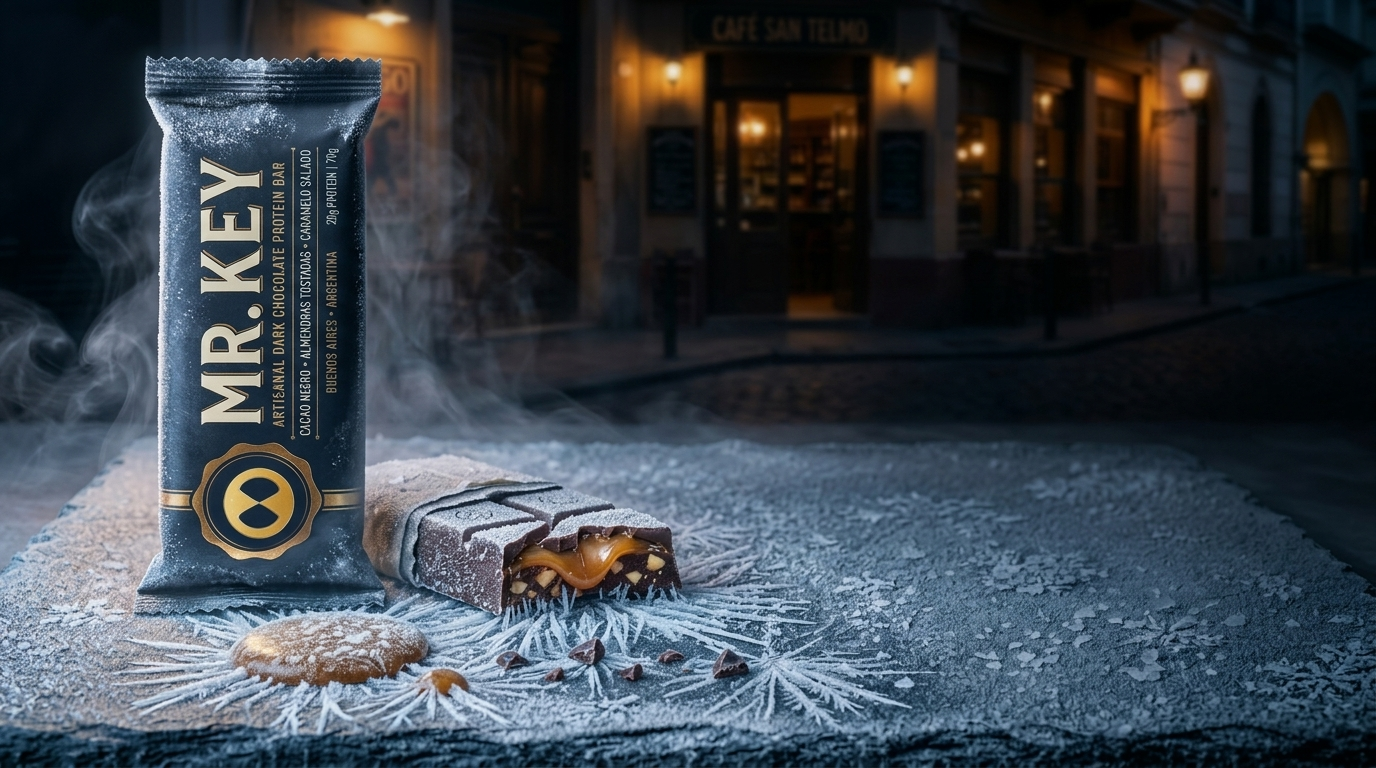
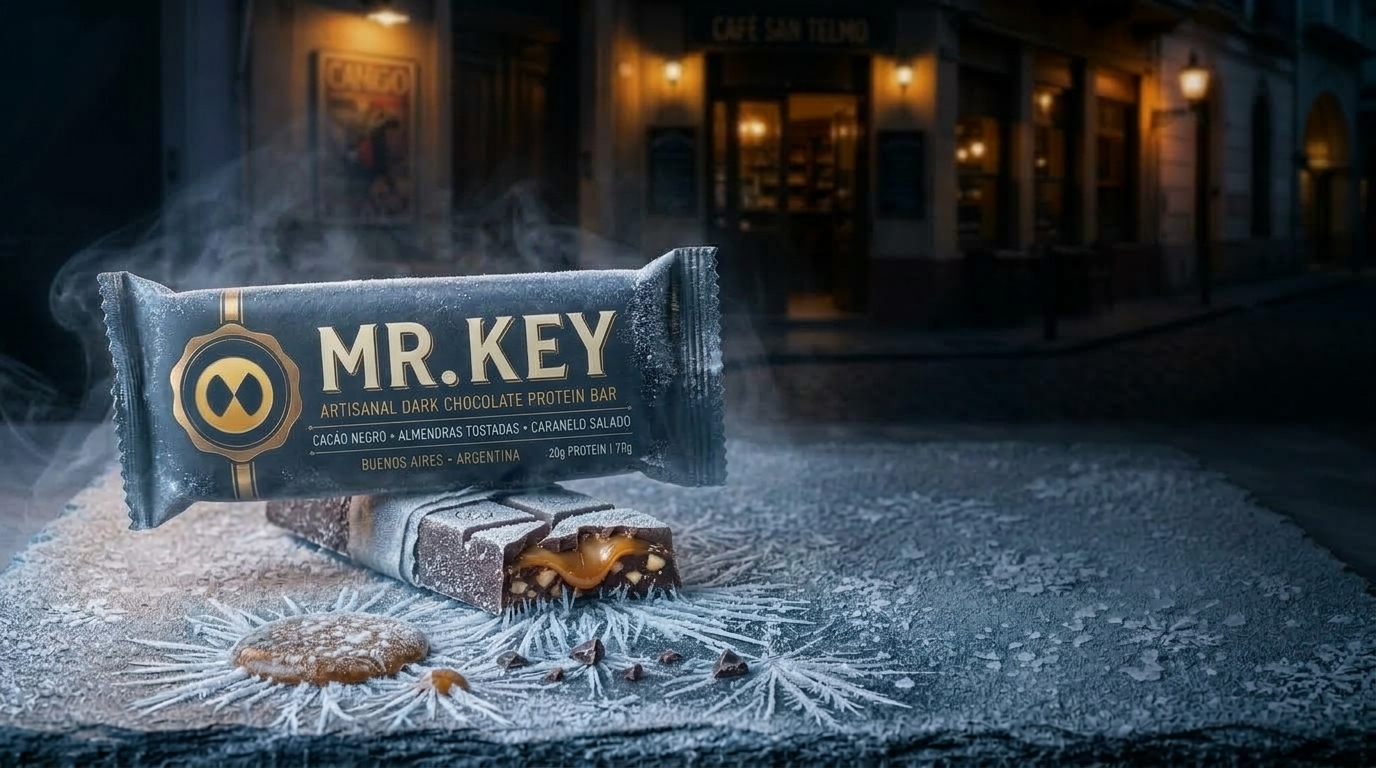
feat(cover): horizontal chocolate bar with 50-50 split grid and card centered in right half

Changed region(s): [[0.0, 0.0625, 0.7812, 0.9062], [0.8125, 0.8125, 0.8438, 0.8438], [0.3438, 0.8438, 0.375, 0.875]]

diff --git a/cover.html b/cover.html
@@ -643,19 +643,112 @@
       box-shadow: 0 25px 70px rgba(0, 0, 0, 0.9), inset 0 1px 1px rgba(255, 255, 255, 0.2);
     }
 
-    /* Desktop Asymmetrical Composition: Chocolate Bar showcase on Left, Card on Right */
+    /* Main Layout Split Grid for 2-column distribution */
+    .main-layout-split {
+      width: 100%;
+      display: flex;
+      justify-content: center;
+    }
+
+    .split-col-left {
+      display: none;
+    }
+
+    .split-col-right {
+      display: flex;
+      justify-content: center;
+      width: 100%;
+    }
+
+    /* Desktop Asymmetrical Composition: Chocolate Bar showcase on Left (50%), Card centered on Right (50%) */
     @media (min-width: 960px) {
+      body.theme-cover {
+        min-height: 100vh;
+        display: flex;
+        flex-direction: column;
+        justify-content: space-between;
+      }
+
       body.theme-cover .container {
-        max-width: 1240px;
-        align-items: flex-end;
+        max-width: 1440px;
+        width: 100%;
+        min-height: calc(100vh - 48px);
+        display: flex;
+        flex-direction: column;
+        justify-content: space-between;
+        padding: 16px 40px;
+      }
+
+      body.theme-cover .top-bar {
+        width: 100%;
+        margin-bottom: 16px;
+      }
+
+      body.theme-cover .main-layout-split {
+        display: grid;
+        grid-template-columns: 1fr 1fr; /* 50% left, 50% right! */
+        width: 100%;
+        flex: 1;
+        align-items: center; /* Vertically centered! */
+        gap: 30px;
+      }
+
+      body.theme-cover .split-col-left {
+        display: block;
+        min-height: 200px;
+        pointer-events: none;
+      }
+
+      body.theme-cover .split-col-right {
+        display: flex;
+        align-items: center;
+        justify-content: center; /* Exactly centered within the right 50%! */
+        width: 100%;
+      }
+
+      body.theme-cover .hero-card {
+        max-width: 490px;
+        width: 100%;
+        margin: 0 auto;
+        background: rgba(14, 10, 7, 0.74);
+        backdrop-filter: blur(14px);
+        -webkit-backdrop-filter: blur(14px);
+        border-color: rgba(245, 158, 11, 0.45);
+        box-shadow: 0 25px 70px rgba(0, 0, 0, 0.9), inset 0 1px 1px rgba(255, 255, 255, 0.2);
+      }
+
+      body.theme-cover .footer-note {
+        width: 100%;
+        text-align: right;
+        padding-right: 20px;
+      }
+    }
+
+    @media (max-width: 959px) {
+      body.theme-cover .container {
+        max-width: 580px;
+        padding: 16px 16px 32px;
+      }
+      body.theme-cover .main-layout-split {
+        display: flex;
+        flex-direction: column;
+        align-items: center;
+      }
+      body.theme-cover .split-col-left {
+        display: none;
+      }
+      body.theme-cover .split-col-right {
+        width: 100%;
       }
       body.theme-cover .hero-card {
-        max-width: 520px;
-        margin-left: auto;
+        max-width: 100%;
+      }
+      body.theme-cover .fullscreen-bg-photo {
+        background-position: 22% center;
       }
       body.theme-cover .footer-note {
-        margin-left: auto;
-        text-align: right;
+        text-align: center;
+        padding-right: 0;
       }
     }
 
@@ -743,8 +836,12 @@
       </div>
     </div>
 
-    <!-- Main Hero Card (Centered) -->
-    <div class="hero-card" id="hero-card">
+    <!-- Main Split Layout for 2-column grid -->
+    <div class="main-layout-split">
+      <div class="split-col-left"></div>
+      <div class="split-col-right">
+        <!-- Main Hero Card (Centered) -->
+        <div class="hero-card" id="hero-card">
       <div class="brand-badge-icon">
         <img src="mrkey-logo.png" alt="Mr. Key" class="brand-mini-logo">
       </div>
@@ -804,6 +901,8 @@
             <path d="M1.6,1.6H2.4V2.4H1.6zM2.4,1.6H3.2V2.4H2.4zM3.2,1.6H4V2.4H3.2zM4,1.6H4.8V2.4H4zM4.8,1.6H5.6V2.4H4.8zM5.6,1.6H6.4V2.4H5.6zM6.4,1.6H7.2V2.4H6.4zM8.8,1.6H9.6V2.4H8.8zM9.6,1.6H10.4V2.4H9.6zM10.4,1.6H11.2V2.4H10.4zM11.2,1.6H12V2.4H11.2zM12.8,1.6H13.6V2.4H12.8zM16.8,1.6H17.6V2.4H16.8zM17.6,1.6H18.4V2.4H17.6zM19.2,1.6H20V2.4H19.2zM20,1.6H20.8V2.4H20zM20.8,1.6H21.6V2.4H20.8zM21.6,1.6H22.4V2.4H21.6zM22.4,1.6H23.2V2.4H22.4zM23.2,1.6H24V2.4H23.2zM24,1.6H24.8V2.4H24zM1.6,2.4H2.4V3.2H1.6zM6.4,2.4H7.2V3.2H6.4zM9.6,2.4H10.4V3.2H9.6zM14.4,2.4H15.2V3.2H14.4zM15.2,2.4H16V3.2H15.2zM17.6,2.4H18.4V3.2H17.6zM19.2,2.4H20V3.2H19.2zM24,2.4H24.8V3.2H24zM1.6,3.2H2.4V4H1.6zM3.2,3.2H4V4H3.2zM4,3.2H4.8V4H4zM4.8,3.2H5.6V4H4.8zM6.4,3.2H7.2V4H6.4zM9.6,3.2H10.4V4H9.6zM10.4,3.2H11.2V4H10.4zM12.8,3.2H13.6V4H12.8zM13.6,3.2H14.4V4H13.6zM15.2,3.2H16V4H15.2zM16.8,3.2H17.6V4H16.8zM17.6,3.2H18.4V4H17.6zM19.2,3.2H20V4H19.2zM20.8,3.2H21.6V4H20.8zM21.6,3.2H22.4V4H21.6zM22.4,3.2H23.2V4H22.4zM24,3.2H24.8V4H24zM1.6,4H2.4V4.8H1.6zM3.2,4H4V4.8H3.2zM4,4H4.8V4.8H4zM4.8,4H5.6V4.8H4.8zM6.4,4H7.2V4.8H6.4zM8.8,4H9.6V4.8H8.8zM9.6,4H10.4V4.8H9.6zM10.4,4H11.2V4.8H10.4zM11.2,4H12V4.8H11.2zM12,4H12.8V4.8H12zM14.4,4H15.2V4.8H14.4zM15.2,4H16V4.8H15.2zM16,4H16.8V4.8H16zM17.6,4H18.4V4.8H17.6zM19.2,4H20V4.8H19.2zM20.8,4H21.6V4.8H20.8zM21.6,4H22.4V4.8H21.6zM22.4,4H23.2V4.8H22.4zM24,4H24.8V4.8H24zM1.6,4.8H2.4V5.6H1.6zM3.2,4.8H4V5.6H3.2zM4,4.8H4.8V5.6H4zM4.8,4.8H5.6V5.6H4.8zM6.4,4.8H7.2V5.6H6.4zM8.8,4.8H9.6V5.6H8.8zM9.6,4.8H10.4V5.6H9.6zM10.4,4.8H11.2V5.6H10.4zM15.2,4.8H16V5.6H15.2zM16.8,4.8H17.6V5.6H16.8zM19.2,4.8H20V5.6H19.2zM20.8,4.8H21.6V5.6H20.8zM21.6,4.8H22.4V5.6H21.6zM22.4,4.8H23.2V5.6H22.4zM24,4.8H24.8V5.6H24zM1.6,5.6H2.4V6.4H1.6zM6.4,5.6H7.2V6.4H6.4zM8,5.6H8.8V6.4H8zM9.6,5.6H10.4V6.4H9.6zM13.6,5.6H14.4V6.4H13.6zM14.4,5.6H15.2V6.4H14.4zM15.2,5.6H16V6.4H15.2zM16,5.6H16.8V6.4H16zM16.8,5.6H17.6V6.4H16.8zM19.2,5.6H20V6.4H19.2zM24,5.6H24.8V6.4H24zM1.6,6.4H2.4V7.2H1.6zM2.4,6.4H3.2V7.2H2.4zM3.2,6.4H4V7.2H3.2zM4,6.4H4.8V7.2H4zM4.8,6.4H5.6V7.2H4.8zM5.6,6.4H6.4V7.2H5.6zM6.4,6.4H7.2V7.2H6.4zM8,6.4H8.8V7.2H8zM9.6,6.4H10.4V7.2H9.6zM11.2,6.4H12V7.2H11.2zM12.8,6.4H13.6V7.2H12.8zM14.4,6.4H15.2V7.2H14.4zM16,6.4H16.8V7.2H16zM17.6,6.4H18.4V7.2H17.6zM19.2,6.4H20V7.2H19.2zM20,6.4H20.8V7.2H20zM20.8,6.4H21.6V7.2H20.8zM21.6,6.4H22.4V7.2H21.6zM22.4,6.4H23.2V7.2H22.4zM23.2,6.4H24V7.2H23.2zM24,6.4H24.8V7.2H24zM10.4,7.2H11.2V8H10.4zM12,7.2H12.8V8H12zM13.6,7.2H14.4V8H13.6zM14.4,7.2H15.2V8H14.4zM15.2,7.2H16V8H15.2zM16,7.2H16.8V8H16zM1.6,8H2.4V8.8H1.6zM4,8H4.8V8.8H4zM5.6,8H6.4V8.8H5.6zM6.4,8H7.2V8.8H6.4zM8,8H8.8V8.8H8zM8.8,8H9.6V8.8H8.8zM9.6,8H10.4V8.8H9.6zM10.4,8H11.2V8.8H10.4zM11.2,8H12V8.8H11.2zM12.8,8H13.6V8.8H12.8zM14.4,8H15.2V8.8H14.4zM18.4,8H19.2V8.8H18.4zM20,8H20.8V8.8H20zM3.2,8.8H4V9.6H3.2zM4,8.8H4.8V9.6H4zM7.2,8.8H8V9.6H7.2zM8,8.8H8.8V9.6H8zM8.8,8.8H9.6V9.6H8.8zM12,8.8H12.8V9.6H12zM13.6,8.8H14.4V9.6H13.6zM14.4,8.8H15.2V9.6H14.4zM15.2,8.8H16V9.6H15.2zM17.6,8.8H18.4V9.6H17.6zM18.4,8.8H19.2V9.6H18.4zM19.2,8.8H20V9.6H19.2zM20,8.8H20.8V9.6H20zM21.6,8.8H22.4V9.6H21.6zM24,8.8H24.8V9.6H24zM1.6,9.6H2.4V10.4H1.6zM2.4,9.6H3.2V10.4H2.4zM4.8,9.6H5.6V10.4H4.8zM6.4,9.6H7.2V10.4H6.4zM8,9.6H8.8V10.4H8zM8.8,9.6H9.6V10.4H8.8zM9.6,9.6H10.4V10.4H9.6zM10.4,9.6H11.2V10.4H10.4zM12,9.6H12.8V10.4H12zM12.8,9.6H13.6V10.4H12.8zM13.6,9.6H14.4V10.4H13.6zM15.2,9.6H16V10.4H15.2zM16,9.6H16.8V10.4H16zM16.8,9.6H17.6V10.4H16.8zM17.6,9.6H18.4V10.4H17.6zM18.4,9.6H19.2V10.4H18.4zM19.2,9.6H20V10.4H19.2zM20,9.6H20.8V10.4H20zM20.8,9.6H21.6V10.4H20.8zM21.6,9.6H22.4V10.4H21.6zM22.4,9.6H23.2V10.4H22.4zM23.2,9.6H24V10.4H23.2zM1.6,10.4H2.4V11.2H1.6zM4,10.4H4.8V11.2H4zM7.2,10.4H8V11.2H7.2zM9.6,10.4H10.4V11.2H9.6zM10.4,10.4H11.2V11.2H10.4zM12,10.4H12.8V11.2H12zM14.4,10.4H15.2V11.2H14.4zM17.6,10.4H18.4V11.2H17.6zM19.2,10.4H20V11.2H19.2zM20,10.4H20.8V11.2H20zM22.4,10.4H23.2V11.2H22.4zM23.2,10.4H24V11.2H23.2zM3.2,11.2H4V12H3.2zM4.8,11.2H5.6V12H4.8zM5.6,11.2H6.4V12H5.6zM6.4,11.2H7.2V12H6.4zM8,11.2H8.8V12H8zM9.6,11.2H10.4V12H9.6zM12.8,11.2H13.6V12H12.8zM13.6,11.2H14.4V12H13.6zM15.2,11.2H16V12H15.2zM17.6,11.2H18.4V12H17.6zM18.4,11.2H19.2V12H18.4zM19.2,11.2H20V12H19.2zM21.6,11.2H22.4V12H21.6zM23.2,11.2H24V12H23.2zM24,11.2H24.8V12H24zM4.8,12H5.6V12.8H4.8zM5.6,12H6.4V12.8H5.6zM7.2,12H8V12.8H7.2zM8,12H8.8V12.8H8zM9.6,12H10.4V12.8H9.6zM10.4,12H11.2V12.8H10.4zM11.2,12H12V12.8H11.2zM12,12H12.8V12.8H12zM12.8,12H13.6V12.8H12.8zM13.6,12H14.4V12.8H13.6zM14.4,12H15.2V12.8H14.4zM16.8,12H17.6V12.8H16.8zM17.6,12H18.4V12.8H17.6zM18.4,12H19.2V12.8H18.4zM1.6,12.8H2.4V13.6H1.6zM3.2,12.8H4V13.6H3.2zM4,12.8H4.8V13.6H4zM5.6,12.8H6.4V13.6H5.6zM6.4,12.8H7.2V13.6H6.4zM8,12.8H8.8V13.6H8zM9.6,12.8H10.4V13.6H9.6zM12,12.8H12.8V13.6H12zM12.8,12.8H13.6V13.6H12.8zM17.6,12.8H18.4V13.6H17.6zM18.4,12.8H19.2V13.6H18.4zM20.8,12.8H21.6V13.6H20.8zM21.6,12.8H22.4V13.6H21.6zM22.4,12.8H23.2V13.6H22.4zM23.2,12.8H24V13.6H23.2zM24,12.8H24.8V13.6H24zM1.6,13.6H2.4V14.4H1.6zM4.8,13.6H5.6V14.4H4.8zM9.6,13.6H10.4V14.4H9.6zM10.4,13.6H11.2V14.4H10.4zM13.6,13.6H14.4V14.4H13.6zM15.2,13.6H16V14.4H15.2zM16,13.6H16.8V14.4H16zM17.6,13.6H18.4V14.4H17.6zM20.8,13.6H21.6V14.4H20.8zM21.6,13.6H22.4V14.4H21.6zM23.2,13.6H24V14.4H23.2zM1.6,14.4H2.4V15.2H1.6zM2.4,14.4H3.2V15.2H2.4zM4.8,14.4H5.6V15.2H4.8zM5.6,14.4H6.4V15.2H5.6zM6.4,14.4H7.2V15.2H6.4zM7.2,14.4H8V15.2H7.2zM11.2,14.4H12V15.2H11.2zM12,14.4H12.8V15.2H12zM15.2,14.4H16V15.2H15.2zM18.4,14.4H19.2V15.2H18.4zM23.2,14.4H24V15.2H23.2zM3.2,15.2H4V16H3.2zM4,15.2H4.8V16H4zM4.8,15.2H5.6V16H4.8zM5.6,15.2H6.4V16H5.6zM8,15.2H8.8V16H8zM11.2,15.2H12V16H11.2zM12,15.2H12.8V16H12zM12.8,15.2H13.6V16H12.8zM13.6,15.2H14.4V16H13.6zM14.4,15.2H15.2V16H14.4zM16,15.2H16.8V16H16zM16.8,15.2H17.6V16H16.8zM19.2,15.2H20V16H19.2zM20,15.2H20.8V16H20zM21.6,15.2H22.4V16H21.6zM24,15.2H24.8V16H24zM1.6,16H2.4V16.8H1.6zM3.2,16H4V16.8H3.2zM4,16H4.8V16.8H4zM6.4,16H7.2V16.8H6.4zM7.2,16H8V16.8H7.2zM9.6,16H10.4V16.8H9.6zM12.8,16H13.6V16.8H12.8zM13.6,16H14.4V16.8H13.6zM14.4,16H15.2V16.8H14.4zM19.2,16H20V16.8H19.2zM23.2,16H24V16.8H23.2zM24,16H24.8V16.8H24zM3.2,16.8H4V17.6H3.2zM4,16.8H4.8V17.6H4zM4.8,16.8H5.6V17.6H4.8zM9.6,16.8H10.4V17.6H9.6zM11.2,16.8H12V17.6H11.2zM12.8,16.8H13.6V17.6H12.8zM15.2,16.8H16V17.6H15.2zM18.4,16.8H19.2V17.6H18.4zM20.8,16.8H21.6V17.6H20.8zM23.2,16.8H24V17.6H23.2zM24,16.8H24.8V17.6H24zM1.6,17.6H2.4V18.4H1.6zM3.2,17.6H4V18.4H3.2zM4,17.6H4.8V18.4H4zM4.8,17.6H5.6V18.4H4.8zM6.4,17.6H7.2V18.4H6.4zM7.2,17.6H8V18.4H7.2zM8.8,17.6H9.6V18.4H8.8zM11.2,17.6H12V18.4H11.2zM13.6,17.6H14.4V18.4H13.6zM15.2,17.6H16V18.4H15.2zM16,17.6H16.8V18.4H16zM16.8,17.6H17.6V18.4H16.8zM17.6,17.6H18.4V18.4H17.6zM18.4,17.6H19.2V18.4H18.4zM19.2,17.6H20V18.4H19.2zM20,17.6H20.8V18.4H20zM20.8,17.6H21.6V18.4H20.8zM22.4,17.6H23.2V18.4H22.4zM8,18.4H8.8V19.2H8zM10.4,18.4H11.2V19.2H10.4zM12.8,18.4H13.6V19.2H12.8zM13.6,18.4H14.4V19.2H13.6zM17.6,18.4H18.4V19.2H17.6zM20.8,18.4H21.6V19.2H20.8zM22.4,18.4H23.2V19.2H22.4zM23.2,18.4H24V19.2H23.2zM24,18.4H24.8V19.2H24zM1.6,19.2H2.4V20H1.6zM2.4,19.2H3.2V20H2.4zM3.2,19.2H4V20H3.2zM4,19.2H4.8V20H4zM4.8,19.2H5.6V20H4.8zM5.6,19.2H6.4V20H5.6zM6.4,19.2H7.2V20H6.4zM8.8,19.2H9.6V20H8.8zM9.6,19.2H10.4V20H9.6zM10.4,19.2H11.2V20H10.4zM14.4,19.2H15.2V20H14.4zM15.2,19.2H16V20H15.2zM17.6,19.2H18.4V20H17.6zM19.2,19.2H20V20H19.2zM20.8,19.2H21.6V20H20.8zM23.2,19.2H24V20H23.2zM1.6,20H2.4V20.8H1.6zM6.4,20H7.2V20.8H6.4zM8,20H8.8V20.8H8zM8.8,20H9.6V20.8H8.8zM11.2,20H12V20.8H11.2zM12.8,20H13.6V20.8H12.8zM13.6,20H14.4V20.8H13.6zM15.2,20H16V20.8H15.2zM17.6,20H18.4V20.8H17.6zM20.8,20H21.6V20.8H20.8zM21.6,20H22.4V20.8H21.6zM22.4,20H23.2V20.8H22.4zM24,20H24.8V20.8H24zM1.6,20.8H2.4V21.6H1.6zM3.2,20.8H4V21.6H3.2zM4,20.8H4.8V21.6H4zM4.8,20.8H5.6V21.6H4.8zM6.4,20.8H7.2V21.6H6.4zM10.4,20.8H11.2V21.6H10.4zM11.2,20.8H12V21.6H11.2zM14.4,20.8H15.2V21.6H14.4zM17.6,20.8H18.4V21.6H17.6zM18.4,20.8H19.2V21.6H18.4zM19.2,20.8H20V21.6H19.2zM20,20.8H20.8V21.6H20zM20.8,20.8H21.6V21.6H20.8zM1.6,21.6H2.4V22.4H1.6zM3.2,21.6H4V22.4H3.2zM4,21.6H4.8V22.4H4zM4.8,21.6H5.6V22.4H4.8zM6.4,21.6H7.2V22.4H6.4zM8,21.6H8.8V22.4H8zM8.8,21.6H9.6V22.4H8.8zM10.4,21.6H11.2V22.4H10.4zM11.2,21.6H12V22.4H11.2zM12,21.6H12.8V22.4H12zM13.6,21.6H14.4V22.4H13.6zM15.2,21.6H16V22.4H15.2zM16.8,21.6H17.6V22.4H16.8zM19.2,21.6H20V22.4H19.2zM20,21.6H20.8V22.4H20zM20.8,21.6H21.6V22.4H20.8zM21.6,21.6H22.4V22.4H21.6zM22.4,21.6H23.2V22.4H22.4zM24,21.6H24.8V22.4H24zM1.6,22.4H2.4V23.2H1.6zM3.2,22.4H4V23.2H3.2zM4,22.4H4.8V23.2H4zM4.8,22.4H5.6V23.2H4.8zM6.4,22.4H7.2V23.2H6.4zM8.8,22.4H9.6V23.2H8.8zM12,22.4H12.8V23.2H12zM12.8,22.4H13.6V23.2H12.8zM13.6,22.4H14.4V23.2H13.6zM14.4,22.4H15.2V23.2H14.4zM15.2,22.4H16V23.2H15.2zM16,22.4H16.8V23.2H16zM16.8,22.4H17.6V23.2H16.8zM20,22.4H20.8V23.2H20zM20.8,22.4H21.6V23.2H20.8zM21.6,22.4H22.4V23.2H21.6zM22.4,22.4H23.2V23.2H22.4zM24,22.4H24.8V23.2H24zM1.6,23.2H2.4V24H1.6zM6.4,23.2H7.2V24H6.4zM9.6,23.2H10.4V24H9.6zM11.2,23.2H12V24H11.2zM12.8,23.2H13.6V24H12.8zM14.4,23.2H15.2V24H14.4zM15.2,23.2H16V24H15.2zM16,23.2H16.8V24H16zM16.8,23.2H17.6V24H16.8zM17.6,23.2H18.4V24H17.6zM18.4,23.2H19.2V24H18.4zM19.2,23.2H20V24H19.2zM20,23.2H20.8V24H20zM23.2,23.2H24V24H23.2zM1.6,24H2.4V24.8H1.6zM2.4,24H3.2V24.8H2.4zM3.2,24H4V24.8H3.2zM4,24H4.8V24.8H4zM4.8,24H5.6V24.8H4.8zM5.6,24H6.4V24.8H5.6zM6.4,24H7.2V24.8H6.4zM8,24H8.8V24.8H8zM9.6,24H10.4V24.8H9.6zM10.4,24H11.2V24.8H10.4zM12,24H12.8V24.8H12zM13.6,24H14.4V24.8H13.6zM14.4,24H15.2V24.8H14.4zM16,24H16.8V24.8H16zM17.6,24H18.4V24.8H17.6zM18.4,24H19.2V24        <div class="qr-hint" id="txt-qr-hint">Escaneá con tu celular para abrir el bot</div>
       </div>
     </div>
+      </div> <!-- /split-col-right -->
+    </div> <!-- /main-layout-split -->
 
   <!-- Minimal Copyright -->
   <div class="footer-note" id="txt-footer">

diff --git a/index.html b/index.html
@@ -643,19 +643,112 @@
       box-shadow: 0 25px 70px rgba(0, 0, 0, 0.9), inset 0 1px 1px rgba(255, 255, 255, 0.2);
     }
 
-    /* Desktop Asymmetrical Composition: Chocolate Bar showcase on Left, Card on Right */
+    /* Main Layout Split Grid for 2-column distribution */
+    .main-layout-split {
+      width: 100%;
+      display: flex;
+      justify-content: center;
+    }
+
+    .split-col-left {
+      display: none;
+    }
+
+    .split-col-right {
+      display: flex;
+      justify-content: center;
+      width: 100%;
+    }
+
+    /* Desktop Asymmetrical Composition: Chocolate Bar showcase on Left (50%), Card centered on Right (50%) */
     @media (min-width: 960px) {
+      body.theme-cover {
+        min-height: 100vh;
+        display: flex;
+        flex-direction: column;
+        justify-content: space-between;
+      }
+
       body.theme-cover .container {
-        max-width: 1240px;
-        align-items: flex-end;
+        max-width: 1440px;
+        width: 100%;
+        min-height: calc(100vh - 48px);
+        display: flex;
+        flex-direction: column;
+        justify-content: space-between;
+        padding: 16px 40px;
+      }
+
+      body.theme-cover .top-bar {
+        width: 100%;
+        margin-bottom: 16px;
+      }
+
+      body.theme-cover .main-layout-split {
+        display: grid;
+        grid-template-columns: 1fr 1fr; /* 50% left, 50% right! */
+        width: 100%;
+        flex: 1;
+        align-items: center; /* Vertically centered! */
+        gap: 30px;
+      }
+
+      body.theme-cover .split-col-left {
+        display: block;
+        min-height: 200px;
+        pointer-events: none;
+      }
+
+      body.theme-cover .split-col-right {
+        display: flex;
+        align-items: center;
+        justify-content: center; /* Exactly centered within the right 50%! */
+        width: 100%;
+      }
+
+      body.theme-cover .hero-card {
+        max-width: 490px;
+        width: 100%;
+        margin: 0 auto;
+        background: rgba(14, 10, 7, 0.74);
+        backdrop-filter: blur(14px);
+        -webkit-backdrop-filter: blur(14px);
+        border-color: rgba(245, 158, 11, 0.45);
+        box-shadow: 0 25px 70px rgba(0, 0, 0, 0.9), inset 0 1px 1px rgba(255, 255, 255, 0.2);
+      }
+
+      body.theme-cover .footer-note {
+        width: 100%;
+        text-align: right;
+        padding-right: 20px;
+      }
+    }
+
+    @media (max-width: 959px) {
+      body.theme-cover .container {
+        max-width: 580px;
+        padding: 16px 16px 32px;
+      }
+      body.theme-cover .main-layout-split {
+        display: flex;
+        flex-direction: column;
+        align-items: center;
+      }
+      body.theme-cover .split-col-left {
+        display: none;
+      }
+      body.theme-cover .split-col-right {
+        width: 100%;
       }
       body.theme-cover .hero-card {
-        max-width: 520px;
-        margin-left: auto;
+        max-width: 100%;
+      }
+      body.theme-cover .fullscreen-bg-photo {
+        background-position: 22% center;
       }
       body.theme-cover .footer-note {
-        margin-left: auto;
-        text-align: right;
+        text-align: center;
+        padding-right: 0;
       }
     }
 
@@ -743,8 +836,12 @@
       </div>
     </div>
 
-    <!-- Main Hero Card (Centered) -->
-    <div class="hero-card" id="hero-card">
+    <!-- Main Split Layout for 2-column grid -->
+    <div class="main-layout-split">
+      <div class="split-col-left"></div>
+      <div class="split-col-right">
+        <!-- Main Hero Card (Centered) -->
+        <div class="hero-card" id="hero-card">
       <div class="brand-badge-icon">
         <img src="mrkey-logo.png" alt="Mr. Key" class="brand-mini-logo">
       </div>
@@ -804,6 +901,8 @@
             <path d="M1.6,1.6H2.4V2.4H1.6zM2.4,1.6H3.2V2.4H2.4zM3.2,1.6H4V2.4H3.2zM4,1.6H4.8V2.4H4zM4.8,1.6H5.6V2.4H4.8zM5.6,1.6H6.4V2.4H5.6zM6.4,1.6H7.2V2.4H6.4zM8.8,1.6H9.6V2.4H8.8zM9.6,1.6H10.4V2.4H9.6zM10.4,1.6H11.2V2.4H10.4zM11.2,1.6H12V2.4H11.2zM12.8,1.6H13.6V2.4H12.8zM16.8,1.6H17.6V2.4H16.8zM17.6,1.6H18.4V2.4H17.6zM19.2,1.6H20V2.4H19.2zM20,1.6H20.8V2.4H20zM20.8,1.6H21.6V2.4H20.8zM21.6,1.6H22.4V2.4H21.6zM22.4,1.6H23.2V2.4H22.4zM23.2,1.6H24V2.4H23.2zM24,1.6H24.8V2.4H24zM1.6,2.4H2.4V3.2H1.6zM6.4,2.4H7.2V3.2H6.4zM9.6,2.4H10.4V3.2H9.6zM14.4,2.4H15.2V3.2H14.4zM15.2,2.4H16V3.2H15.2zM17.6,2.4H18.4V3.2H17.6zM19.2,2.4H20V3.2H19.2zM24,2.4H24.8V3.2H24zM1.6,3.2H2.4V4H1.6zM3.2,3.2H4V4H3.2zM4,3.2H4.8V4H4zM4.8,3.2H5.6V4H4.8zM6.4,3.2H7.2V4H6.4zM9.6,3.2H10.4V4H9.6zM10.4,3.2H11.2V4H10.4zM12.8,3.2H13.6V4H12.8zM13.6,3.2H14.4V4H13.6zM15.2,3.2H16V4H15.2zM16.8,3.2H17.6V4H16.8zM17.6,3.2H18.4V4H17.6zM19.2,3.2H20V4H19.2zM20.8,3.2H21.6V4H20.8zM21.6,3.2H22.4V4H21.6zM22.4,3.2H23.2V4H22.4zM24,3.2H24.8V4H24zM1.6,4H2.4V4.8H1.6zM3.2,4H4V4.8H3.2zM4,4H4.8V4.8H4zM4.8,4H5.6V4.8H4.8zM6.4,4H7.2V4.8H6.4zM8.8,4H9.6V4.8H8.8zM9.6,4H10.4V4.8H9.6zM10.4,4H11.2V4.8H10.4zM11.2,4H12V4.8H11.2zM12,4H12.8V4.8H12zM14.4,4H15.2V4.8H14.4zM15.2,4H16V4.8H15.2zM16,4H16.8V4.8H16zM17.6,4H18.4V4.8H17.6zM19.2,4H20V4.8H19.2zM20.8,4H21.6V4.8H20.8zM21.6,4H22.4V4.8H21.6zM22.4,4H23.2V4.8H22.4zM24,4H24.8V4.8H24zM1.6,4.8H2.4V5.6H1.6zM3.2,4.8H4V5.6H3.2zM4,4.8H4.8V5.6H4zM4.8,4.8H5.6V5.6H4.8zM6.4,4.8H7.2V5.6H6.4zM8.8,4.8H9.6V5.6H8.8zM9.6,4.8H10.4V5.6H9.6zM10.4,4.8H11.2V5.6H10.4zM15.2,4.8H16V5.6H15.2zM16.8,4.8H17.6V5.6H16.8zM19.2,4.8H20V5.6H19.2zM20.8,4.8H21.6V5.6H20.8zM21.6,4.8H22.4V5.6H21.6zM22.4,4.8H23.2V5.6H22.4zM24,4.8H24.8V5.6H24zM1.6,5.6H2.4V6.4H1.6zM6.4,5.6H7.2V6.4H6.4zM8,5.6H8.8V6.4H8zM9.6,5.6H10.4V6.4H9.6zM13.6,5.6H14.4V6.4H13.6zM14.4,5.6H15.2V6.4H14.4zM15.2,5.6H16V6.4H15.2zM16,5.6H16.8V6.4H16zM16.8,5.6H17.6V6.4H16.8zM19.2,5.6H20V6.4H19.2zM24,5.6H24.8V6.4H24zM1.6,6.4H2.4V7.2H1.6zM2.4,6.4H3.2V7.2H2.4zM3.2,6.4H4V7.2H3.2zM4,6.4H4.8V7.2H4zM4.8,6.4H5.6V7.2H4.8zM5.6,6.4H6.4V7.2H5.6zM6.4,6.4H7.2V7.2H6.4zM8,6.4H8.8V7.2H8zM9.6,6.4H10.4V7.2H9.6zM11.2,6.4H12V7.2H11.2zM12.8,6.4H13.6V7.2H12.8zM14.4,6.4H15.2V7.2H14.4zM16,6.4H16.8V7.2H16zM17.6,6.4H18.4V7.2H17.6zM19.2,6.4H20V7.2H19.2zM20,6.4H20.8V7.2H20zM20.8,6.4H21.6V7.2H20.8zM21.6,6.4H22.4V7.2H21.6zM22.4,6.4H23.2V7.2H22.4zM23.2,6.4H24V7.2H23.2zM24,6.4H24.8V7.2H24zM10.4,7.2H11.2V8H10.4zM12,7.2H12.8V8H12zM13.6,7.2H14.4V8H13.6zM14.4,7.2H15.2V8H14.4zM15.2,7.2H16V8H15.2zM16,7.2H16.8V8H16zM1.6,8H2.4V8.8H1.6zM4,8H4.8V8.8H4zM5.6,8H6.4V8.8H5.6zM6.4,8H7.2V8.8H6.4zM8,8H8.8V8.8H8zM8.8,8H9.6V8.8H8.8zM9.6,8H10.4V8.8H9.6zM10.4,8H11.2V8.8H10.4zM11.2,8H12V8.8H11.2zM12.8,8H13.6V8.8H12.8zM14.4,8H15.2V8.8H14.4zM18.4,8H19.2V8.8H18.4zM20,8H20.8V8.8H20zM3.2,8.8H4V9.6H3.2zM4,8.8H4.8V9.6H4zM7.2,8.8H8V9.6H7.2zM8,8.8H8.8V9.6H8zM8.8,8.8H9.6V9.6H8.8zM12,8.8H12.8V9.6H12zM13.6,8.8H14.4V9.6H13.6zM14.4,8.8H15.2V9.6H14.4zM15.2,8.8H16V9.6H15.2zM17.6,8.8H18.4V9.6H17.6zM18.4,8.8H19.2V9.6H18.4zM19.2,8.8H20V9.6H19.2zM20,8.8H20.8V9.6H20zM21.6,8.8H22.4V9.6H21.6zM24,8.8H24.8V9.6H24zM1.6,9.6H2.4V10.4H1.6zM2.4,9.6H3.2V10.4H2.4zM4.8,9.6H5.6V10.4H4.8zM6.4,9.6H7.2V10.4H6.4zM8,9.6H8.8V10.4H8zM8.8,9.6H9.6V10.4H8.8zM9.6,9.6H10.4V10.4H9.6zM10.4,9.6H11.2V10.4H10.4zM12,9.6H12.8V10.4H12zM12.8,9.6H13.6V10.4H12.8zM13.6,9.6H14.4V10.4H13.6zM15.2,9.6H16V10.4H15.2zM16,9.6H16.8V10.4H16zM16.8,9.6H17.6V10.4H16.8zM17.6,9.6H18.4V10.4H17.6zM18.4,9.6H19.2V10.4H18.4zM19.2,9.6H20V10.4H19.2zM20,9.6H20.8V10.4H20zM20.8,9.6H21.6V10.4H20.8zM21.6,9.6H22.4V10.4H21.6zM22.4,9.6H23.2V10.4H22.4zM23.2,9.6H24V10.4H23.2zM1.6,10.4H2.4V11.2H1.6zM4,10.4H4.8V11.2H4zM7.2,10.4H8V11.2H7.2zM9.6,10.4H10.4V11.2H9.6zM10.4,10.4H11.2V11.2H10.4zM12,10.4H12.8V11.2H12zM14.4,10.4H15.2V11.2H14.4zM17.6,10.4H18.4V11.2H17.6zM19.2,10.4H20V11.2H19.2zM20,10.4H20.8V11.2H20zM22.4,10.4H23.2V11.2H22.4zM23.2,10.4H24V11.2H23.2zM3.2,11.2H4V12H3.2zM4.8,11.2H5.6V12H4.8zM5.6,11.2H6.4V12H5.6zM6.4,11.2H7.2V12H6.4zM8,11.2H8.8V12H8zM9.6,11.2H10.4V12H9.6zM12.8,11.2H13.6V12H12.8zM13.6,11.2H14.4V12H13.6zM15.2,11.2H16V12H15.2zM17.6,11.2H18.4V12H17.6zM18.4,11.2H19.2V12H18.4zM19.2,11.2H20V12H19.2zM21.6,11.2H22.4V12H21.6zM23.2,11.2H24V12H23.2zM24,11.2H24.8V12H24zM4.8,12H5.6V12.8H4.8zM5.6,12H6.4V12.8H5.6zM7.2,12H8V12.8H7.2zM8,12H8.8V12.8H8zM9.6,12H10.4V12.8H9.6zM10.4,12H11.2V12.8H10.4zM11.2,12H12V12.8H11.2zM12,12H12.8V12.8H12zM12.8,12H13.6V12.8H12.8zM13.6,12H14.4V12.8H13.6zM14.4,12H15.2V12.8H14.4zM16.8,12H17.6V12.8H16.8zM17.6,12H18.4V12.8H17.6zM18.4,12H19.2V12.8H18.4zM1.6,12.8H2.4V13.6H1.6zM3.2,12.8H4V13.6H3.2zM4,12.8H4.8V13.6H4zM5.6,12.8H6.4V13.6H5.6zM6.4,12.8H7.2V13.6H6.4zM8,12.8H8.8V13.6H8zM9.6,12.8H10.4V13.6H9.6zM12,12.8H12.8V13.6H12zM12.8,12.8H13.6V13.6H12.8zM17.6,12.8H18.4V13.6H17.6zM18.4,12.8H19.2V13.6H18.4zM20.8,12.8H21.6V13.6H20.8zM21.6,12.8H22.4V13.6H21.6zM22.4,12.8H23.2V13.6H22.4zM23.2,12.8H24V13.6H23.2zM24,12.8H24.8V13.6H24zM1.6,13.6H2.4V14.4H1.6zM4.8,13.6H5.6V14.4H4.8zM9.6,13.6H10.4V14.4H9.6zM10.4,13.6H11.2V14.4H10.4zM13.6,13.6H14.4V14.4H13.6zM15.2,13.6H16V14.4H15.2zM16,13.6H16.8V14.4H16zM17.6,13.6H18.4V14.4H17.6zM20.8,13.6H21.6V14.4H20.8zM21.6,13.6H22.4V14.4H21.6zM23.2,13.6H24V14.4H23.2zM1.6,14.4H2.4V15.2H1.6zM2.4,14.4H3.2V15.2H2.4zM4.8,14.4H5.6V15.2H4.8zM5.6,14.4H6.4V15.2H5.6zM6.4,14.4H7.2V15.2H6.4zM7.2,14.4H8V15.2H7.2zM11.2,14.4H12V15.2H11.2zM12,14.4H12.8V15.2H12zM15.2,14.4H16V15.2H15.2zM18.4,14.4H19.2V15.2H18.4zM23.2,14.4H24V15.2H23.2zM3.2,15.2H4V16H3.2zM4,15.2H4.8V16H4zM4.8,15.2H5.6V16H4.8zM5.6,15.2H6.4V16H5.6zM8,15.2H8.8V16H8zM11.2,15.2H12V16H11.2zM12,15.2H12.8V16H12zM12.8,15.2H13.6V16H12.8zM13.6,15.2H14.4V16H13.6zM14.4,15.2H15.2V16H14.4zM16,15.2H16.8V16H16zM16.8,15.2H17.6V16H16.8zM19.2,15.2H20V16H19.2zM20,15.2H20.8V16H20zM21.6,15.2H22.4V16H21.6zM24,15.2H24.8V16H24zM1.6,16H2.4V16.8H1.6zM3.2,16H4V16.8H3.2zM4,16H4.8V16.8H4zM6.4,16H7.2V16.8H6.4zM7.2,16H8V16.8H7.2zM9.6,16H10.4V16.8H9.6zM12.8,16H13.6V16.8H12.8zM13.6,16H14.4V16.8H13.6zM14.4,16H15.2V16.8H14.4zM19.2,16H20V16.8H19.2zM23.2,16H24V16.8H23.2zM24,16H24.8V16.8H24zM3.2,16.8H4V17.6H3.2zM4,16.8H4.8V17.6H4zM4.8,16.8H5.6V17.6H4.8zM9.6,16.8H10.4V17.6H9.6zM11.2,16.8H12V17.6H11.2zM12.8,16.8H13.6V17.6H12.8zM15.2,16.8H16V17.6H15.2zM18.4,16.8H19.2V17.6H18.4zM20.8,16.8H21.6V17.6H20.8zM23.2,16.8H24V17.6H23.2zM24,16.8H24.8V17.6H24zM1.6,17.6H2.4V18.4H1.6zM3.2,17.6H4V18.4H3.2zM4,17.6H4.8V18.4H4zM4.8,17.6H5.6V18.4H4.8zM6.4,17.6H7.2V18.4H6.4zM7.2,17.6H8V18.4H7.2zM8.8,17.6H9.6V18.4H8.8zM11.2,17.6H12V18.4H11.2zM13.6,17.6H14.4V18.4H13.6zM15.2,17.6H16V18.4H15.2zM16,17.6H16.8V18.4H16zM16.8,17.6H17.6V18.4H16.8zM17.6,17.6H18.4V18.4H17.6zM18.4,17.6H19.2V18.4H18.4zM19.2,17.6H20V18.4H19.2zM20,17.6H20.8V18.4H20zM20.8,17.6H21.6V18.4H20.8zM22.4,17.6H23.2V18.4H22.4zM8,18.4H8.8V19.2H8zM10.4,18.4H11.2V19.2H10.4zM12.8,18.4H13.6V19.2H12.8zM13.6,18.4H14.4V19.2H13.6zM17.6,18.4H18.4V19.2H17.6zM20.8,18.4H21.6V19.2H20.8zM22.4,18.4H23.2V19.2H22.4zM23.2,18.4H24V19.2H23.2zM24,18.4H24.8V19.2H24zM1.6,19.2H2.4V20H1.6zM2.4,19.2H3.2V20H2.4zM3.2,19.2H4V20H3.2zM4,19.2H4.8V20H4zM4.8,19.2H5.6V20H4.8zM5.6,19.2H6.4V20H5.6zM6.4,19.2H7.2V20H6.4zM8.8,19.2H9.6V20H8.8zM9.6,19.2H10.4V20H9.6zM10.4,19.2H11.2V20H10.4zM14.4,19.2H15.2V20H14.4zM15.2,19.2H16V20H15.2zM17.6,19.2H18.4V20H17.6zM19.2,19.2H20V20H19.2zM20.8,19.2H21.6V20H20.8zM23.2,19.2H24V20H23.2zM1.6,20H2.4V20.8H1.6zM6.4,20H7.2V20.8H6.4zM8,20H8.8V20.8H8zM8.8,20H9.6V20.8H8.8zM11.2,20H12V20.8H11.2zM12.8,20H13.6V20.8H12.8zM13.6,20H14.4V20.8H13.6zM15.2,20H16V20.8H15.2zM17.6,20H18.4V20.8H17.6zM20.8,20H21.6V20.8H20.8zM21.6,20H22.4V20.8H21.6zM22.4,20H23.2V20.8H22.4zM24,20H24.8V20.8H24zM1.6,20.8H2.4V21.6H1.6zM3.2,20.8H4V21.6H3.2zM4,20.8H4.8V21.6H4zM4.8,20.8H5.6V21.6H4.8zM6.4,20.8H7.2V21.6H6.4zM10.4,20.8H11.2V21.6H10.4zM11.2,20.8H12V21.6H11.2zM14.4,20.8H15.2V21.6H14.4zM17.6,20.8H18.4V21.6H17.6zM18.4,20.8H19.2V21.6H18.4zM19.2,20.8H20V21.6H19.2zM20,20.8H20.8V21.6H20zM20.8,20.8H21.6V21.6H20.8zM1.6,21.6H2.4V22.4H1.6zM3.2,21.6H4V22.4H3.2zM4,21.6H4.8V22.4H4zM4.8,21.6H5.6V22.4H4.8zM6.4,21.6H7.2V22.4H6.4zM8,21.6H8.8V22.4H8zM8.8,21.6H9.6V22.4H8.8zM10.4,21.6H11.2V22.4H10.4zM11.2,21.6H12V22.4H11.2zM12,21.6H12.8V22.4H12zM13.6,21.6H14.4V22.4H13.6zM15.2,21.6H16V22.4H15.2zM16.8,21.6H17.6V22.4H16.8zM19.2,21.6H20V22.4H19.2zM20,21.6H20.8V22.4H20zM20.8,21.6H21.6V22.4H20.8zM21.6,21.6H22.4V22.4H21.6zM22.4,21.6H23.2V22.4H22.4zM24,21.6H24.8V22.4H24zM1.6,22.4H2.4V23.2H1.6zM3.2,22.4H4V23.2H3.2zM4,22.4H4.8V23.2H4zM4.8,22.4H5.6V23.2H4.8zM6.4,22.4H7.2V23.2H6.4zM8.8,22.4H9.6V23.2H8.8zM12,22.4H12.8V23.2H12zM12.8,22.4H13.6V23.2H12.8zM13.6,22.4H14.4V23.2H13.6zM14.4,22.4H15.2V23.2H14.4zM15.2,22.4H16V23.2H15.2zM16,22.4H16.8V23.2H16zM16.8,22.4H17.6V23.2H16.8zM20,22.4H20.8V23.2H20zM20.8,22.4H21.6V23.2H20.8zM21.6,22.4H22.4V23.2H21.6zM22.4,22.4H23.2V23.2H22.4zM24,22.4H24.8V23.2H24zM1.6,23.2H2.4V24H1.6zM6.4,23.2H7.2V24H6.4zM9.6,23.2H10.4V24H9.6zM11.2,23.2H12V24H11.2zM12.8,23.2H13.6V24H12.8zM14.4,23.2H15.2V24H14.4zM15.2,23.2H16V24H15.2zM16,23.2H16.8V24H16zM16.8,23.2H17.6V24H16.8zM17.6,23.2H18.4V24H17.6zM18.4,23.2H19.2V24H18.4zM19.2,23.2H20V24H19.2zM20,23.2H20.8V24H20zM23.2,23.2H24V24H23.2zM1.6,24H2.4V24.8H1.6zM2.4,24H3.2V24.8H2.4zM3.2,24H4V24.8H3.2zM4,24H4.8V24.8H4zM4.8,24H5.6V24.8H4.8zM5.6,24H6.4V24.8H5.6zM6.4,24H7.2V24.8H6.4zM8,24H8.8V24.8H8zM9.6,24H10.4V24.8H9.6zM10.4,24H11.2V24.8H10.4zM12,24H12.8V24.8H12zM13.6,24H14.4V24.8H13.6zM14.4,24H15.2V24.8H14.4zM16,24H16.8V24.8H16zM17.6,24H18.4V24.8H17.6zM18.4,24H19.2V24        <div class="qr-hint" id="txt-qr-hint">Escaneá con tu celular para abrir el bot</div>
       </div>
     </div>
+      </div> <!-- /split-col-right -->
+    </div> <!-- /main-layout-split -->
 
   <!-- Minimal Copyright -->
   <div class="footer-note" id="txt-footer">
